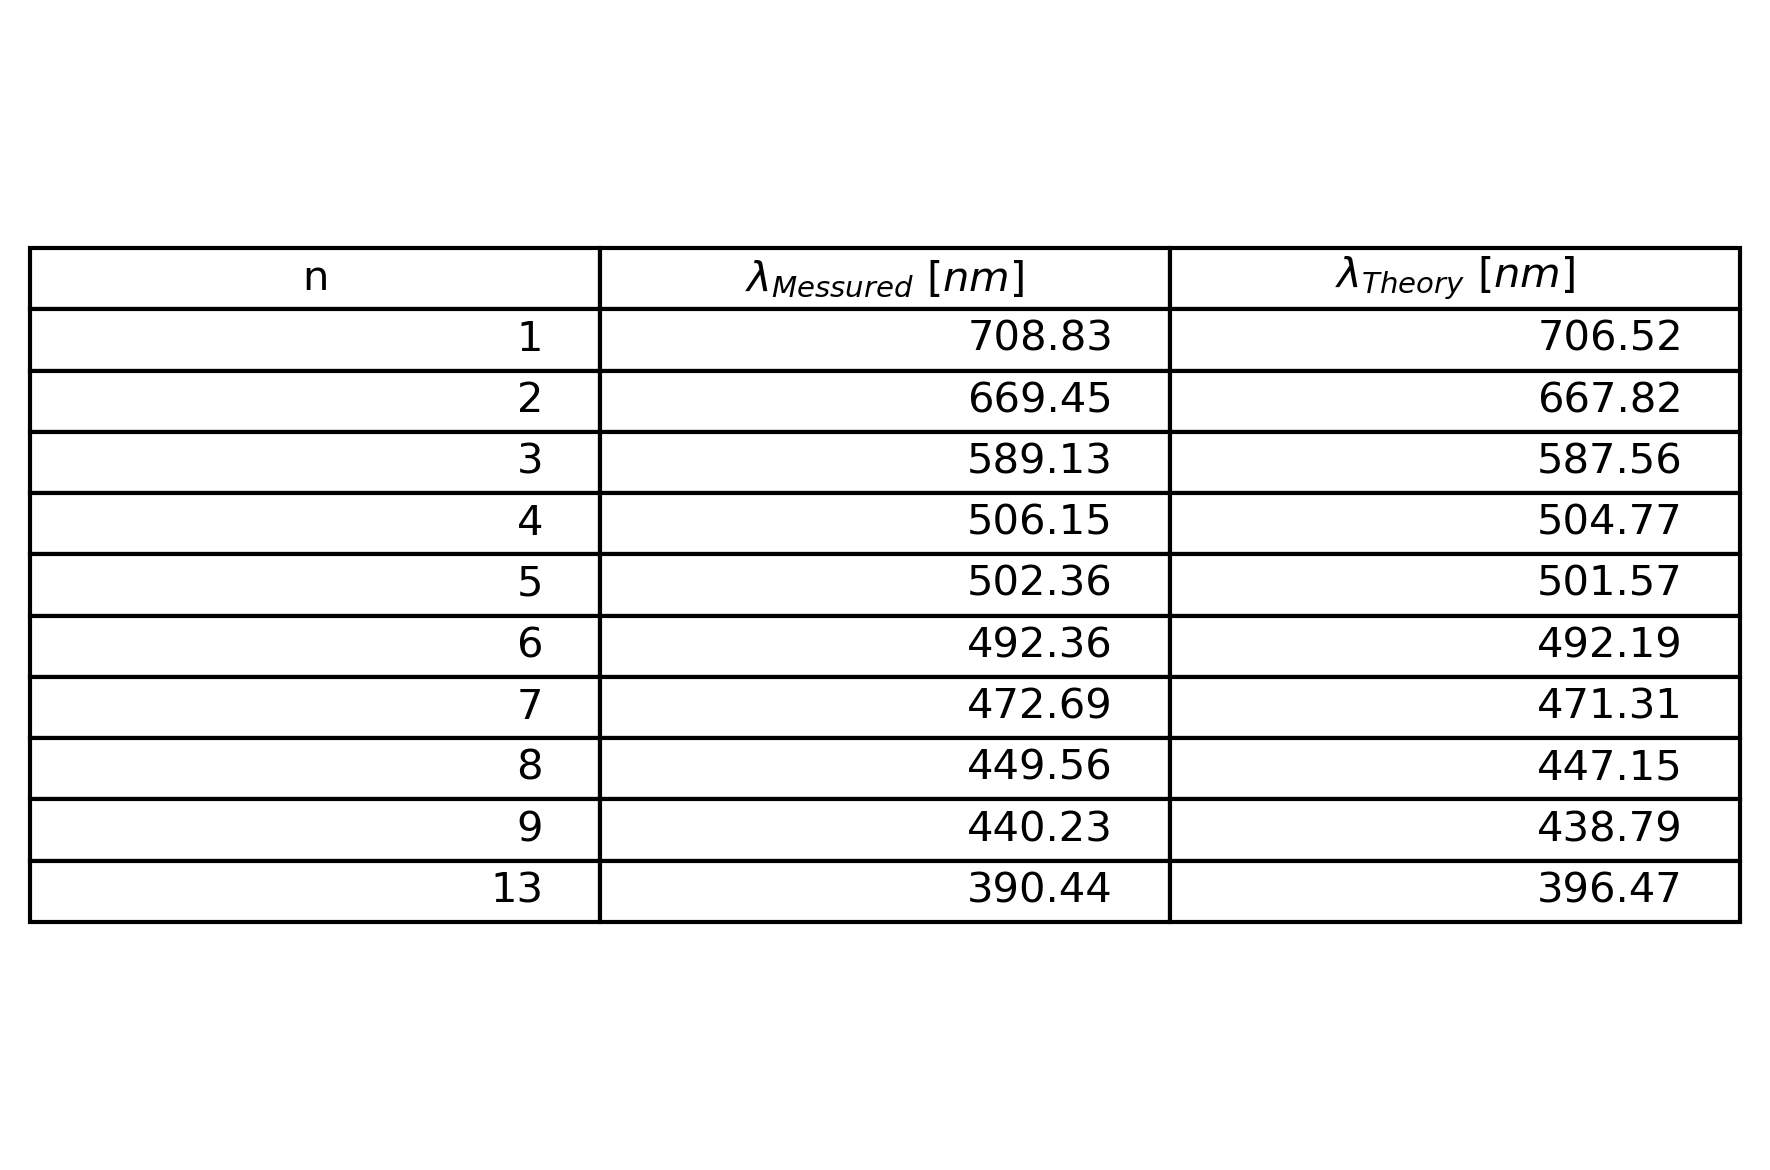
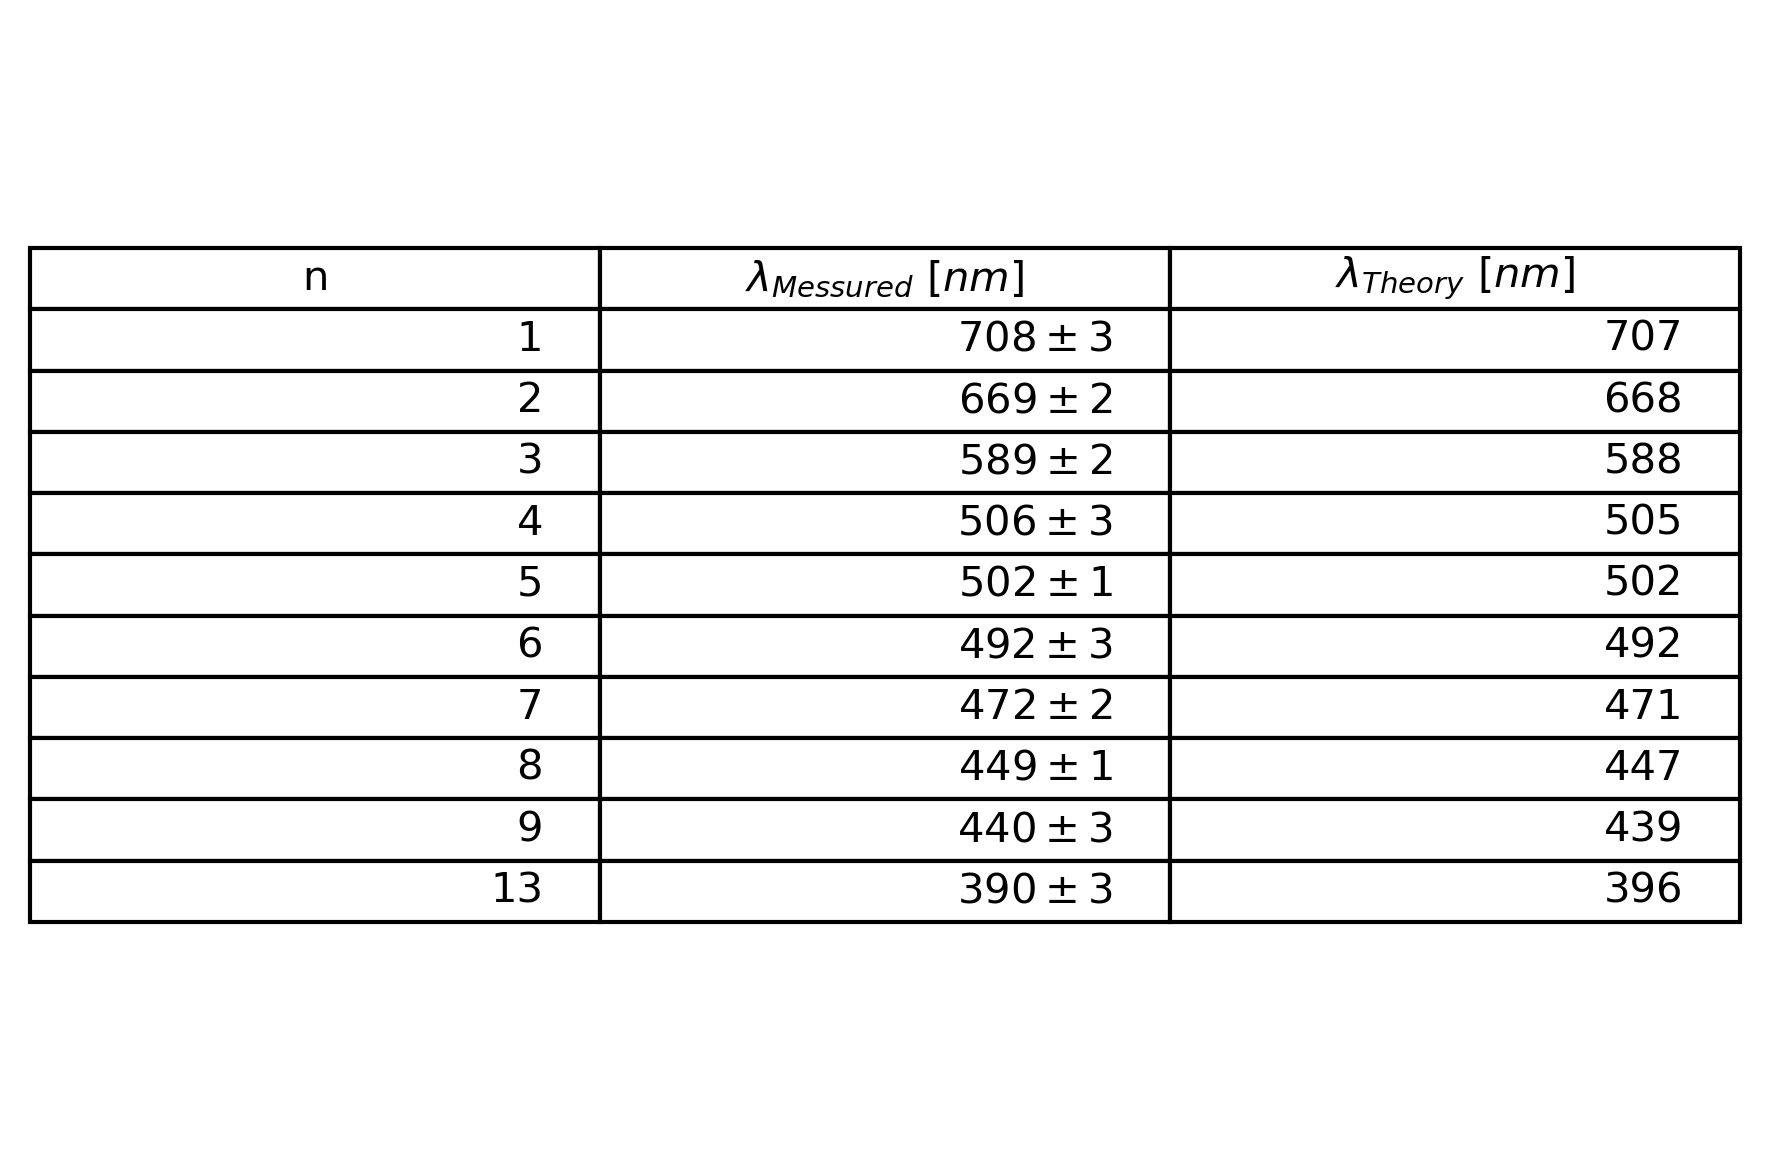
table 2 was added

Changed region(s): [[0.5282, 0.2769, 0.6525, 0.7692], [0.8701, 0.4308, 0.9633, 0.7692], [0.8701, 0.2769, 0.9633, 0.4]]

diff --git a/exp2/exp2.py b/exp2/exp2.py
@@ -44,8 +44,13 @@ plt.ylabel("n - order",fontsize=10)
 plt.xlabel(r"$sin(\frac{\theta_{min}}{2})$",fontsize=10)
 plt.show()
 
-d  = fit1[0][0] * lambda_Hg / 2
+m_val = fit1[0][0]
+m_err =  np.sqrt(fit1[1][0][0]) * 2
+m = Valerr(m_val,m_err)
+d = m * lambda_Hg / 2
+
 print("d=",d) # need to calculte error
+
 
 # part 2
 theta_min_value = np.array([20.5,19.35,17.01,14.6,14.49,14.2,13.63,12.96,12.69,11.25]) * np.pi/180
@@ -55,8 +60,9 @@ theta_min_err = np.array([0.1,0.05,0.05,0.1,0.05,0.1,0.05,0.05,0.1,0.1]) * np.pi
 theta_min = Valerr(theta_min_value,theta_min_err)
 
 n = -1
-f = lambda x: (2 * d * np.sin(x/2) / n) 
-wave_len = Valerr.general_funcion(f,theta_min)
+f = lambda d,x: (2 * d * np.sin(x/2) / n) 
+d = Valerr(d.val*np.ones(len(theta_min.val)),d.err*np.ones(len(theta_min.val)))
+wave_len = Valerr.general_funcion(f,d,theta_min)
 print("wave_len:",wave_len)
 
 
@@ -67,14 +73,16 @@ fig.patch.set_visible(False)
 ax.axis('off')
 ax.axis('tight')
 
-wave_for_table = -wave_len.val * 1e11
-wave_for_table = np.round(wave_for_table) /1e2
-
+# wave_for_table = -wave_len.val * 1e11
+# wave_for_table = np.round(wave_for_table) /1e2
+f = lambda w: np.round(-w*1e11) /1e2
+wave_for_table = Valerr.general_funcion(f, wave_len)
 
 col1 = list(range(1,10)) + [13]
 col1 = [str(x) for x in col1]
-col2 = wave_for_table
-col3 = np.array([706.52,667.82,587.56,504.77,501.57,492.19,471.31,447.15,438.79,396.47])
+col2 = [str(r"$%d\pm%d$"%(wave_for_table.val[i],wave_for_table.err[i])) for i in range(len(wave_for_table.val))]
+col3 = np.round(np.array([706.52,667.82,587.56,504.77,501.57,492.19,471.31,447.15,438.79,396.47]))
+col3 = [str(int(x)) for x in col3]
 data = {"n" :col1, r"$\lambda_{Messured}$ $[nm]$":col2,r"$\lambda_{Theory}$ $[nm]$":col3}
 df = pd.DataFrame(data)
 
@@ -101,8 +109,8 @@ x = wave_len**(-2)
 
 fit2 = linregress(x.val,delta_min.val)
 fig2 = plt.figure("fig2",dpi=200)
-plt.errorbar(x.val,-delta_min.val,yerr=delta_min.err,xerr=x.err,fmt=".",label="Data")
-plt.plot(x.val,-liner_curve(fit2.slope,fit2.intercept,x.val),"-.",label="Regression")
+plt.errorbar(x.val,delta_min.val,yerr=delta_min.err,xerr=x.err,fmt=".",label="Data")
+plt.plot(x.val,liner_curve(fit2.slope,fit2.intercept,x.val),"-.",label="Regression")
 plt.grid()
 plt.legend()
 plt.xlabel(r"$\frac{1}{\lambda^2}[m^{-2}]$",fontsize=10)
@@ -131,9 +139,34 @@ E = f*h
 
 n = np.array(range(3,(len(E.val)+3)))
 R = E / (1/2**2 - 1/n**2)
-R = np.mean(R.val)
-print("R=",R,"eV")
+R_mean = np.mean(R.val)
+print("R=",R_mean,"eV")
 
 R_theory = scipy.constants.physical_constants["Rydberg constant times hc in eV"][0] # in eV
-R_rel_err = abs(R-R_theory) / R_theory *100
+R_rel_err = abs(R_mean-R_theory) / R_theory *100
 print("in presicion of:",R_rel_err,"%")
+
+wave_len = wave_len *1e9
+wave_len_theory = [656.279,486.135,434.0472,410.1734]
+E_theory = [1.89,2.55,2.86,3.03]
+data = { "Transition of n" : ["Wavelength [nm]          ","Energy difference [eV]  ","Rydberg constant          ", "WAVELENGTH THEORY [nm]","ENERGY DIFFERENCE [eV]"],
+        r"$3\rightarrow2$": [str(r"$%d\pm%d$"%(wave_len.val[0],wave_len.err[0])),str(r"$%.2f\pm%.2f$"%(E.val[0],E.err[0])),str(r"$%.1f\pm%.1f$"%(R.val[0],0.3)),wave_len_theory[0],E_theory[0]],
+        r"$4\rightarrow2$": [str(r"$%d\pm%d$"%(wave_len.val[1],wave_len.err[1])),str(r"$%.2f\pm%.2f$"%(E.val[1],E.err[1])),str(r"$%.2f\pm%.2f$"%(R.val[1],R.err[1])),wave_len_theory[1],E_theory[1]],
+        r"$5\rightarrow2$": [str(r"$%d\pm%d$"%(wave_len.val[2],wave_len.err[2])),str(r"$%.2f\pm%.2f$"%(E.val[2],E.err[2])),str(r"$%.1f\pm%.1f$"%(R.val[2],R.err[2])),wave_len_theory[2],E_theory[2]],
+        r"$6\rightarrow2$": [str(r"$%d\pm%d$"%(wave_len.val[3],wave_len.err[3])),str(r"$%.2f\pm%.2f$"%(E.val[3],E.err[3])),str(r"$%.1f\pm%.1f$"%(R.val[3],R.err[3])),wave_len_theory[3],E_theory[3]] 
+        }
+        
+fig, ax = plt.subplots(dpi=400)
+
+# hide axes
+fig.patch.set_visible(False)
+ax.axis('off')
+ax.axis('tight')
+df = pd.DataFrame(data)
+
+
+ax.table(cellText=df.values, colLabels=df.columns,loc='center')
+
+fig.tight_layout()
+
+plt.show()

diff --git a/exp2-spectrography/exp2.py b/exp2-spectrography/exp2.py
@@ -44,8 +44,13 @@ plt.ylabel("n - order",fontsize=10)
 plt.xlabel(r"$sin(\frac{\theta_{min}}{2})$",fontsize=10)
 plt.show()
 
-d  = fit1[0][0] * lambda_Hg / 2
+m_val = fit1[0][0]
+m_err =  np.sqrt(fit1[1][0][0]) * 2
+m = Valerr(m_val,m_err)
+d = m * lambda_Hg / 2
+
 print("d=",d) # need to calculte error
+
 
 # part 2
 theta_min_value = np.array([20.5,19.35,17.01,14.6,14.49,14.2,13.63,12.96,12.69,11.25]) * np.pi/180
@@ -55,8 +60,9 @@ theta_min_err = np.array([0.1,0.05,0.05,0.1,0.05,0.1,0.05,0.05,0.1,0.1]) * np.pi
 theta_min = Valerr(theta_min_value,theta_min_err)
 
 n = -1
-f = lambda x: (2 * d * np.sin(x/2) / n) 
-wave_len = Valerr.general_funcion(f,theta_min)
+f = lambda d,x: (2 * d * np.sin(x/2) / n) 
+d = Valerr(d.val*np.ones(len(theta_min.val)),d.err*np.ones(len(theta_min.val)))
+wave_len = Valerr.general_funcion(f,d,theta_min)
 print("wave_len:",wave_len)
 
 
@@ -67,14 +73,16 @@ fig.patch.set_visible(False)
 ax.axis('off')
 ax.axis('tight')
 
-wave_for_table = -wave_len.val * 1e11
-wave_for_table = np.round(wave_for_table) /1e2
-
+# wave_for_table = -wave_len.val * 1e11
+# wave_for_table = np.round(wave_for_table) /1e2
+f = lambda w: np.round(-w*1e11) /1e2
+wave_for_table = Valerr.general_funcion(f, wave_len)
 
 col1 = list(range(1,10)) + [13]
 col1 = [str(x) for x in col1]
-col2 = wave_for_table
-col3 = np.array([706.52,667.82,587.56,504.77,501.57,492.19,471.31,447.15,438.79,396.47])
+col2 = [str(r"$%d\pm%d$"%(wave_for_table.val[i],wave_for_table.err[i])) for i in range(len(wave_for_table.val))]
+col3 = np.round(np.array([706.52,667.82,587.56,504.77,501.57,492.19,471.31,447.15,438.79,396.47]))
+col3 = [str(int(x)) for x in col3]
 data = {"n" :col1, r"$\lambda_{Messured}$ $[nm]$":col2,r"$\lambda_{Theory}$ $[nm]$":col3}
 df = pd.DataFrame(data)
 
@@ -101,8 +109,8 @@ x = wave_len**(-2)
 
 fit2 = linregress(x.val,delta_min.val)
 fig2 = plt.figure("fig2",dpi=200)
-plt.errorbar(x.val,-delta_min.val,yerr=delta_min.err,xerr=x.err,fmt=".",label="Data")
-plt.plot(x.val,-liner_curve(fit2.slope,fit2.intercept,x.val),"-.",label="Regression")
+plt.errorbar(x.val,delta_min.val,yerr=delta_min.err,xerr=x.err,fmt=".",label="Data")
+plt.plot(x.val,liner_curve(fit2.slope,fit2.intercept,x.val),"-.",label="Regression")
 plt.grid()
 plt.legend()
 plt.xlabel(r"$\frac{1}{\lambda^2}[m^{-2}]$",fontsize=10)
